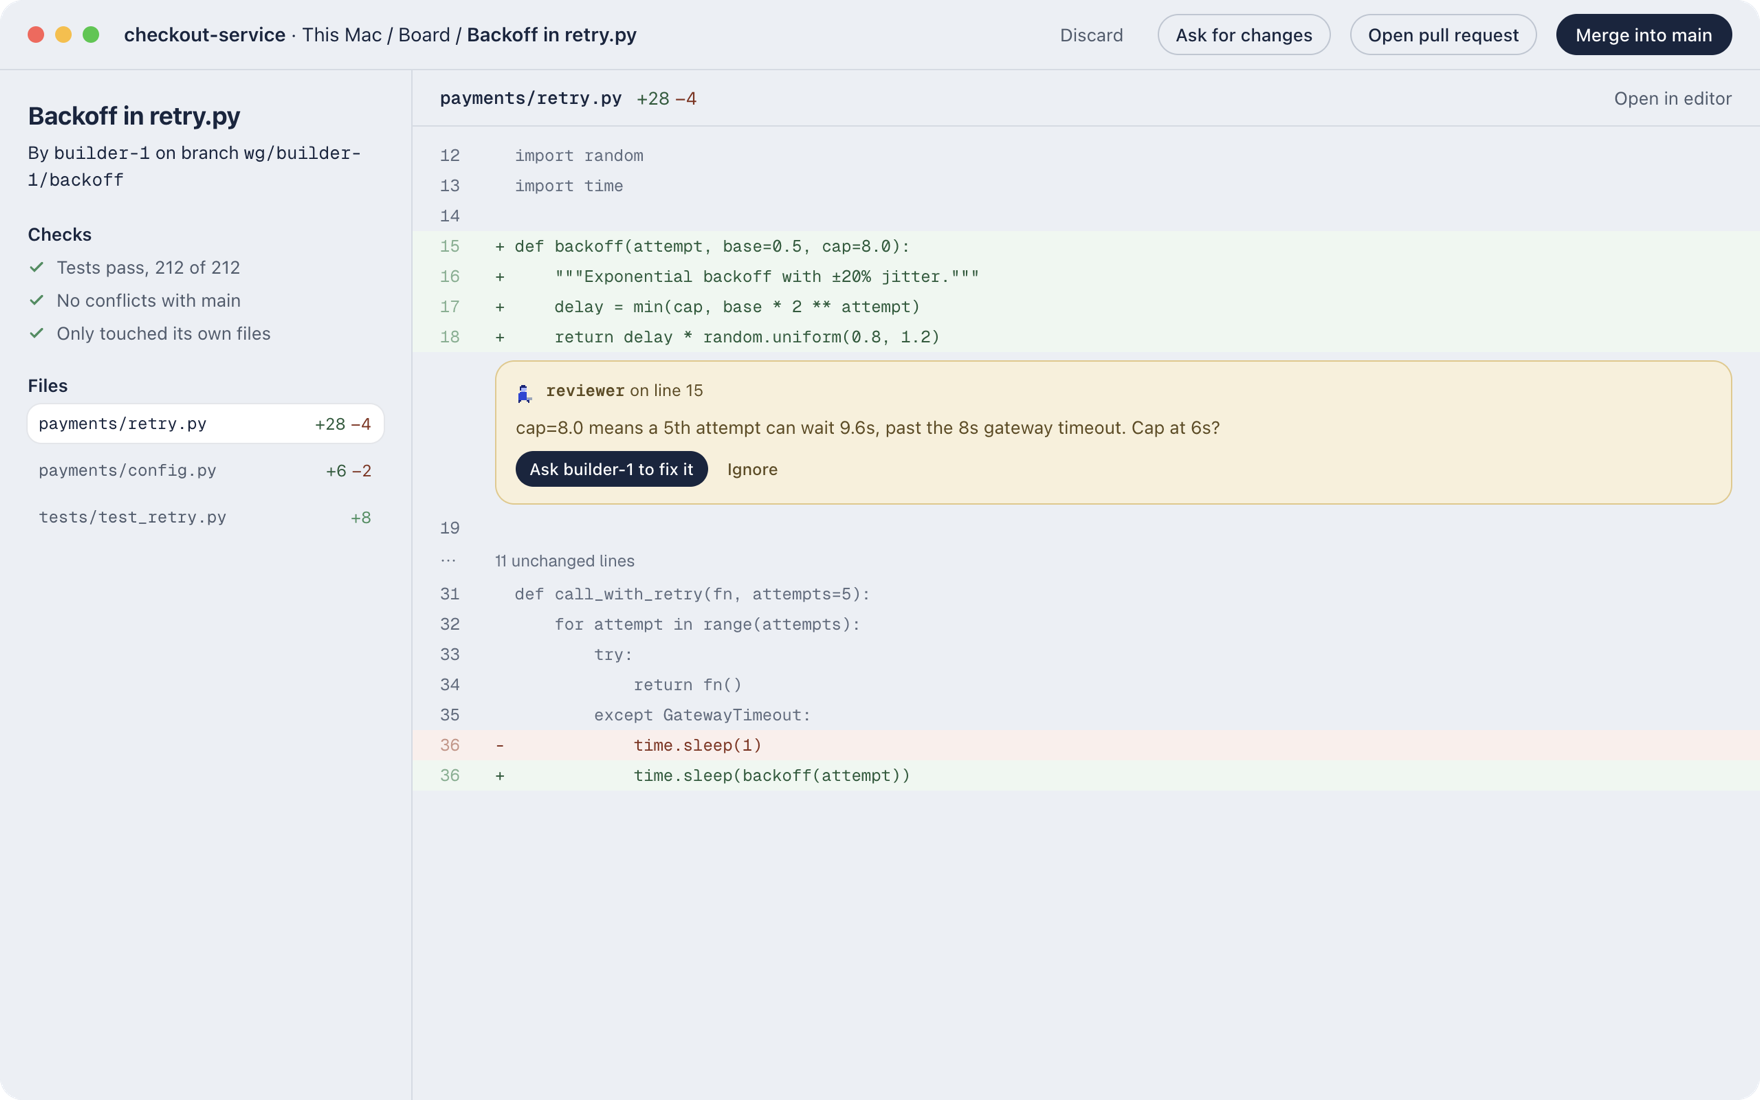
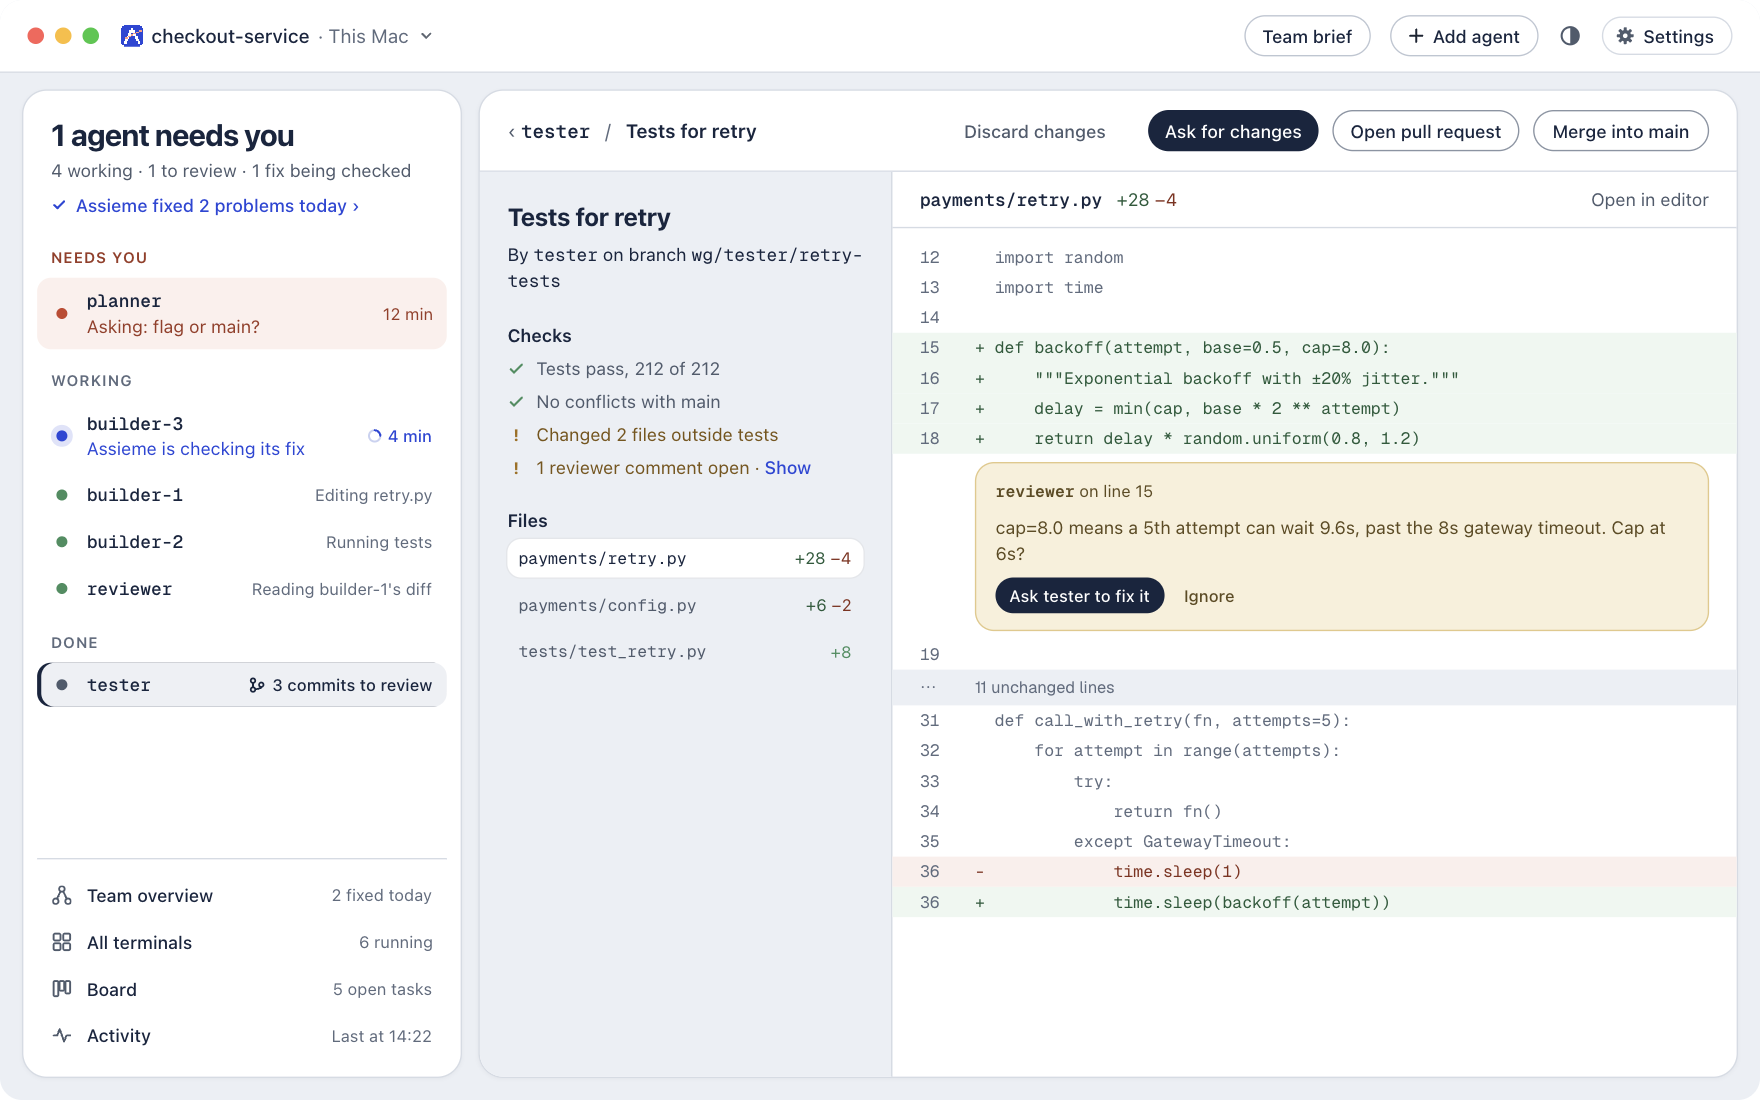
README: the one-window design, fixes that run on their own, and Assieme running on Rust

diff --git a/README.md b/README.md
@@ -11,7 +11,8 @@
 <p align="center">
   <img src="https://img.shields.io/github/v/release/MoatCast/assieme?style=flat-square&color=2747D9&label=release" alt="Release">
   <img src="https://img.shields.io/badge/macOS-Apple%20silicon-2747D9?style=flat-square" alt="macOS on Apple silicon">
-  <img src="https://img.shields.io/badge/agents-Claude%20Code%20%C2%B7%20Codex-2747D9?style=flat-square" alt="Claude Code and Codex">
+  <img src="https://img.shields.io/badge/built%20in-Rust-2747D9?style=flat-square" alt="Built in Rust">
+  <img src="https://img.shields.io/badge/agents-Claude%20Code%20%C2%B7%20Codex%20%C2%B7%20more-2747D9?style=flat-square" alt="Claude Code, Codex and more">
   <img src="https://img.shields.io/badge/licence-Apache--2.0-2747D9?style=flat-square" alt="Apache-2.0">
 </p>
 
@@ -19,91 +20,105 @@
   <img src="assets/readme/band.png" width="880" alt="The band: a pianist, a violinist, a cellist raising a hand because it needs you, a flautist, the conductor, a trumpeter, a clarinettist, a bassist and a timpanist.">
 </p>
 
-Assieme ("together", in Italian) runs a team of Claude Code and Codex agents on your Mac. Each agent plays its own part
-on its own branch. Assieme shows you who is playing, who has stopped and who needs you. Assieme fixes stuck agents, full memory and refused commands on its own, and tells you what it did. Questions, merges and money stay yours.
+Assieme ("together", in Italian) runs a team of coding agents on your Mac: Claude Code, Codex, Antigravity, Gemini
+CLI, OpenCode and Cursor. Each agent works on its own branch, in its own live terminal. One window shows who is
+working, who has stopped and who needs you. When an agent gets stuck, loops or runs low on memory, Assieme fixes it on
+its own and lists what it did. Questions, merges and money stay yours.
+
+<p align="center">
+  <img src="assets/readme/needs-you.png" width="880" alt="The Assieme window: on the left, the team's agents grouped as needs you, working and done; on the right, the planner asking whether to ship behind a flag or straight to main, with answer buttons above its live terminal.">
+</p>
 
 ---
 
-## The team, on stage
+## Why Assieme
+
+- **One window for the whole team.** The agents on the left, grouped by what they need from you. An agent with a
+  question goes to the top, with how long it has waited and who it is holding up; answer with one click.
+- **It fixes problems on its own.** A stuck agent, a repeated refused command, memory filling up: Assieme acts, checks
+  that the fix worked, and pauses the agent and asks you if it did not.
+- **You decide what matters.** Agents never push. You review each branch, then merge, with Undo.
+- **Fast and light, because it runs on Rust.** Assieme is one Rust program that runs the terminals, watches the agents
+  and answers the app. There is no Python or Node runtime to install. It idles at about 35 MB of memory, its agent
+  hooks start in under 5 ms, and the app is a 30 MB download.
+
+## Assieme fixes it, then tells you
 
 <p align="center">
-  <img src="assets/readme/team.png" width="880" alt="The Team screen: two agents need you. The band plays above a map of who wakes whom; cards on the right hold the planner's question with answer buttons, a stuck builder with a fix, a tip that saves 12%, and work ready to review.">
+  <img src="assets/readme/fixing.png" width="880" alt="builder-3 is stuck: the same test failed 4 times. Assieme asked it to try another way at 14:22 and is checking until 14:32.">
 </p>
 
-Every agent is a musician, and its role is its instrument. A raised hand means it needs you. The map below shows who
-wakes whom, and the cards on the right hold each question with its answers and each problem with its fix.
+Each fix shows what Assieme noticed, what it did and when it will check the result. A fix that does not work pauses
+the agent and asks you. Every action is in Activity, with Undo where it applies.
+
+## The team at a glance
+
+<p align="center">
+  <img src="assets/readme/overview.png" width="880" alt="Team overview: 2 problems fixed today, $4.20 spent of a $10 daily limit, what Assieme did today, and a map of who works with whom.">
+</p>
+
+What Assieme did today, what the team has spent against its daily limit, and a map of who works with whom.
 
 ## Every terminal, live
 
 <p align="center">
-  <img src="assets/readme/terminals.png" width="880" alt="Six live terminals. The planner asks a question and the stuck builder offers a fix, each answerable from its pane.">
+  <img src="assets/readme/terminals.png" width="880" alt="Six live terminals in a grid. The planner's pane has its answer buttons; builder-3's pane shows Assieme checking its fix; the tester's pane has Review changes.">
 </p>
 
-Real terminals that keep running when the window is closed. Answer a question from the pane, or open one full size to
-type.
+Real terminals that keep running when the window is closed. Answer from the pane, or open one full size to type.
 
 ## Review, then merge
 
 <p align="center">
-  <img src="assets/readme/review.png" width="880" alt="A review: tests pass 212 of 212, no conflicts with main, only its own files touched. The reviewer's note sits on the line it is about, with Ask builder-1 to fix it.">
+  <img src="assets/readme/review.png" width="880" alt="A review of the tester's branch: tests pass 212 of 212, no conflicts with main, a reviewer's note on line 15 with Ask tester to fix it, and Merge into main.">
 </p>
 
-Every agent that edits works on its own branch. One screen holds the diff, the test results, the conflict check and
-the reviewer's notes, with Ask for changes, Open pull request, Merge and Undo.
+The diff, the test results, the conflict check and the reviewer's notes, on one screen. Ask for changes, open a pull
+request, or merge. Assieme refuses a merge that would lose work, and Undo puts the branch back.
 
-## The plan, as it moves
+## A new team, ready to work
 
 <p align="center">
-  <img src="assets/readme/board.png" width="880" alt="The task board: to do, doing, review and done, with the agent on each card and the stuck one showing its fix.">
+  <img src="assets/readme/new-team.png" width="880" alt="New team, last step: what Assieme does before the agents start, while they work and always, then 6 agents on This Mac and Start 6 agents.">
 </p>
 
-The planner's split becomes cards that move from to do to done, reported by the agents themselves.
+Choose a project, a task and a team, from one agent to a planner with builders, a reviewer and a tester. Before you
+start, Assieme shows what it does for the team: rules for every agent, fixes while they work, a branch per agent and no
+pushes.
 
-## From your phone
+## Also in the app
 
-<p align="center">
-  <img src="assets/readme/phone.png" width="880" alt="The phone guide: continue a Claude Code or Codex session from your phone; every change asks you first, and your Mac must stay awake and online.">
-</p>
-
-Install Assieme in Claude Code, Codex or the Claude app from Settings. Then ask, from your phone, "What needs me?",
-answer an agent, review its work or start a team. Every change asks you first.
-
-## What makes it unique
-
-Other tools let you start agents and watch them. Assieme also notices the problem, explains it and offers the fix.
-
-- **It says why a team has stopped,** following who waits on whom down to the cause:
-  `lead waits on you (asked 10 min ago)`.
-- **Every alert comes with its fix:** a stuck agent, a refused command, memory filling up. One button, or automatic
-  once you trust it, and logged with Undo.
-- **It shows what agents cost each other,** tracing the wake-ups that re-read a whole context and did no work.
-- **Agents report for themselves,** saying when they are stuck or need a decision.
-- **A new team starts tuned:** a branch per builder, read-only reviewers, no `git push`, and practices learned from real
-  teams.
-- **Your assistant helps, you stay in charge.** Claude Code, Codex or the Claude app can act on your teams; every change
-  asks you first.
+- **Daily limits** per team or per agent: at the limit, Assieme pauses and asks you, or just tells you.
+- **Bring your team over** from another tool, with its agents, folders and branches.
+- **Remote machines:** run agents on a Linux box or another Mac over SSH, shown in the same window.
+- **Previews** of a web app an agent is building, stopped when its work is merged.
+- **Your assistant helps, you stay in charge.** Connect Assieme to Claude Code, Codex or the Claude app, then ask
+  "What needs me?" from your phone. Every change asks you first.
 
 ## Install
 
 **Download** the latest `.dmg` from [Releases](https://github.com/MoatCast/assieme/releases/latest), open it and drag
 Assieme to Applications. It is signed and notarised by Apple, and updates itself.
 
-You need an Apple silicon Mac and Claude Code or Codex. First run finds the agents you already use and sets up the
-rest.
+You need an Apple silicon Mac and at least one coding agent, such as Claude Code or Codex. First run finds the agents
+you already use and sets up the rest.
 
 <details>
 <summary>Build from source</summary>
 
-You need Node and Rust.
+You need Node, Rust, [just](https://github.com/casey/just), [Zig](https://ziglang.org) 0.16 (for the terminal
+library) and `cargo install --locked cargo-zigbuild` (for the Linux builds remote machines use).
 
 ```bash
-git clone https://github.com/MoatCast/assieme.git
-cd assieme/app
-npm install
-sh scripts/bundle.sh
+git clone --recurse-submodules https://github.com/MoatCast/assieme.git
+cd assieme/runtime && just check     # the runtime and the brain, with their tests
+cd ../app && npm install
+sh scripts/bundle.sh                 # builds the runtime into the app
 npx tauri build --bundles app
 open src-tauri/target/release/bundle/macos/Assieme.app
 ```
+
+Set `ZIG` to your Zig binary if it is not on your `PATH`.
 
 </details>
 
@@ -113,19 +128,20 @@ open src-tauri/target/release/bundle/macos/Assieme.app
 For scripts and power users: install it from Settings › General › Command line tools in the app.
 
 ```bash
-assieme                         # live view: what needs you, alerts, one-key fixes
-assieme status [--watch]        # one line per agent, alerts first
-assieme report --hours 24       # who woke whom, what it cost, what was refused
+assieme status                  # one line per agent: working, stuck, waiting on you
+assieme team status             # the agents of every team
 assieme team start <preset> --task "Add retries to the payment client"
+assieme team stop <team>
 ```
 
 </details>
 
 ## Safe by default
 
-It never kills an agent without asking, never widens permission rules and never answers a permission prompt for you.
-An agent's work stays on its own branch until you merge it. Assieme runs on your Mac with no telemetry, and talks only
-to your agents, your git remote and any assistant you connect.
+Assieme never kills an agent without asking, never widens an agent's permissions and never answers a permission
+prompt for you. Pushing is blocked by default; an agent's work stays on its own branch until you merge it.
+Assieme runs on your Mac with no telemetry, and talks only to your agents, your git remote and any assistant you
+connect.
 
 ## Licence
 
